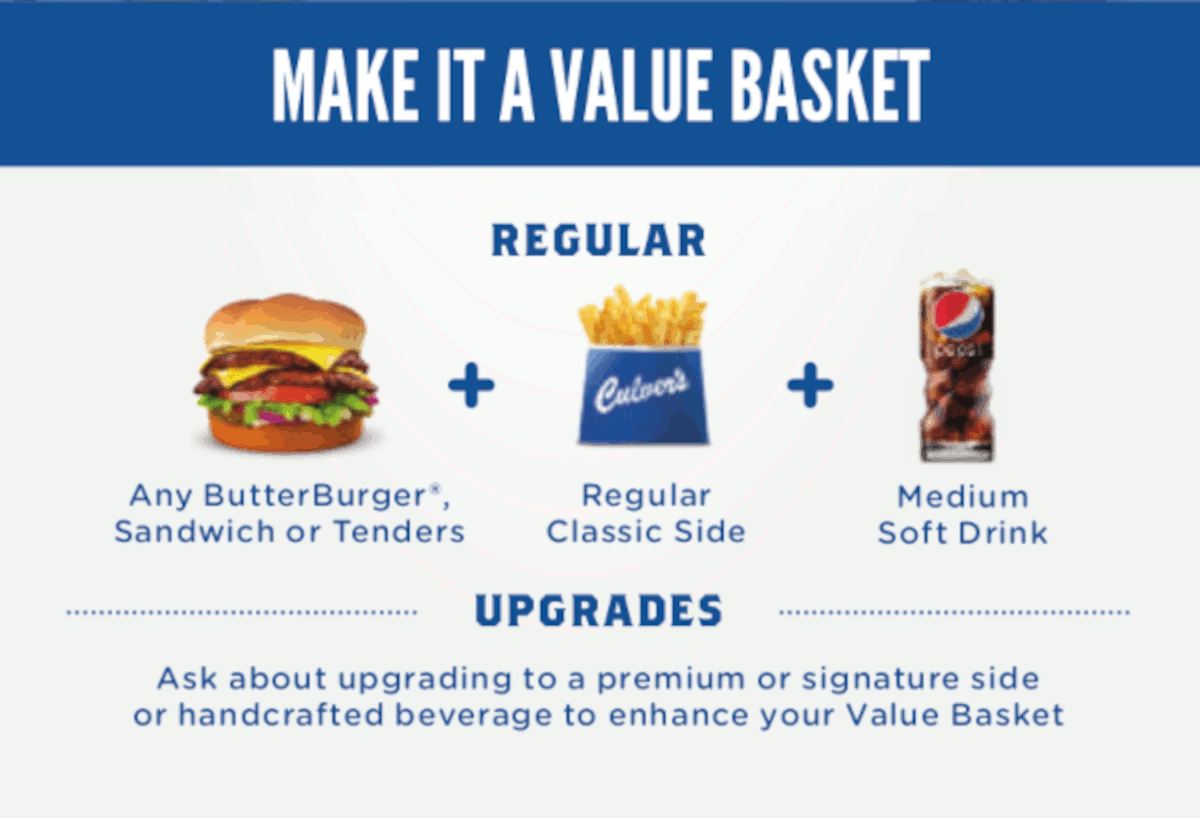
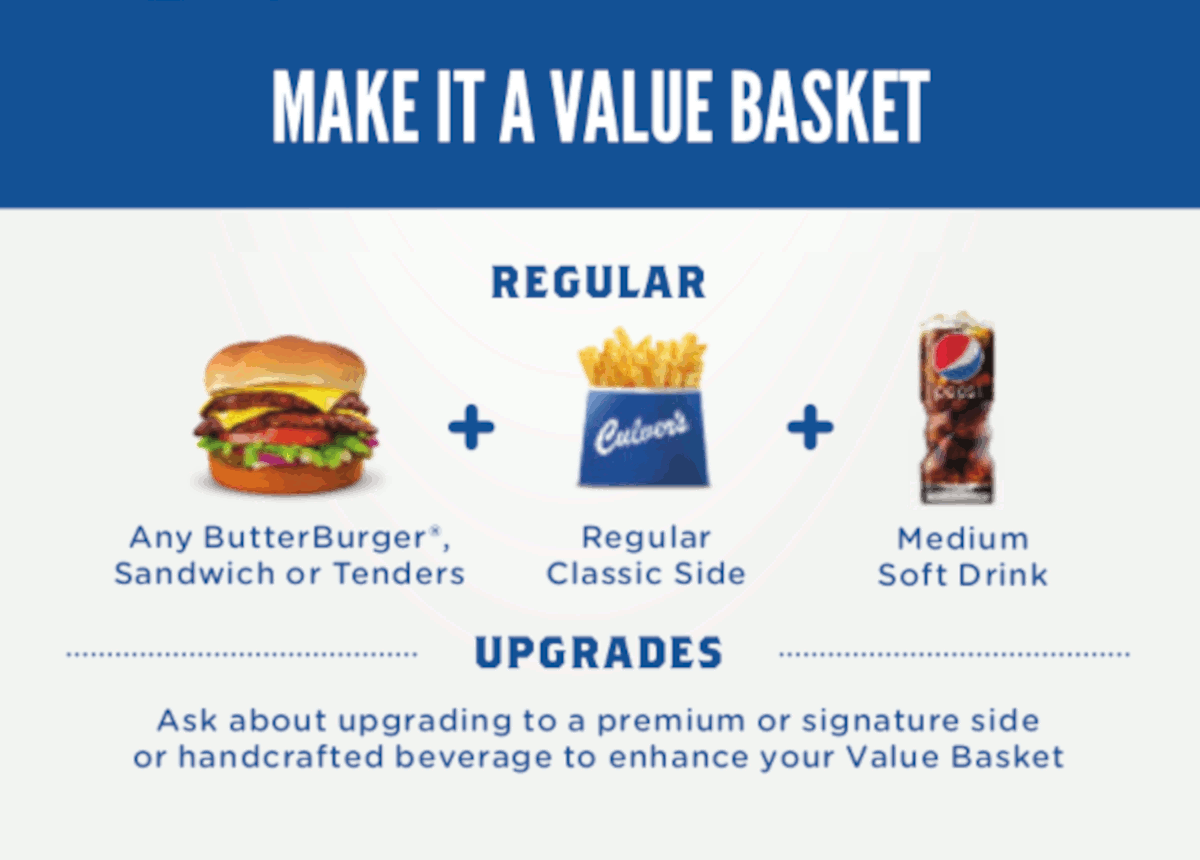
Normalized height of headers

diff --git a/index.html b/index.html
@@ -20,9 +20,9 @@ body {
 <body>
 <img src="1-Header-Butterburgers.png" class="responsive" width="1200" height="2808">
 <img src="2-Sandwiches-Tenders.png" class="responsive" width="1200" height="1342">
-<img src="3-Value-Basket.png" class="responsive" width="1200" height="818">
-<img src="4-Dinners-Salads.png" class="responsive" width="1200" height="1566">
-<img src="5-Kids-Meal.png" class="responsive" width="1200" height="942">
+<img src="3-Value-Basket.png" class="responsive" width="1200" height="860">
+<img src="4-Dinners-Salads.png" class="responsive" width="1200" height="1608">
+<img src="5-Kids-Meal.png" class="responsive" width="1200" height="984">
 <img src="6-Sides-Drinks.png" class="responsive" width="1200" height="2450">
 <img src="7-Custard.png" class="responsive" width="1200" height="3394">
 </body>
